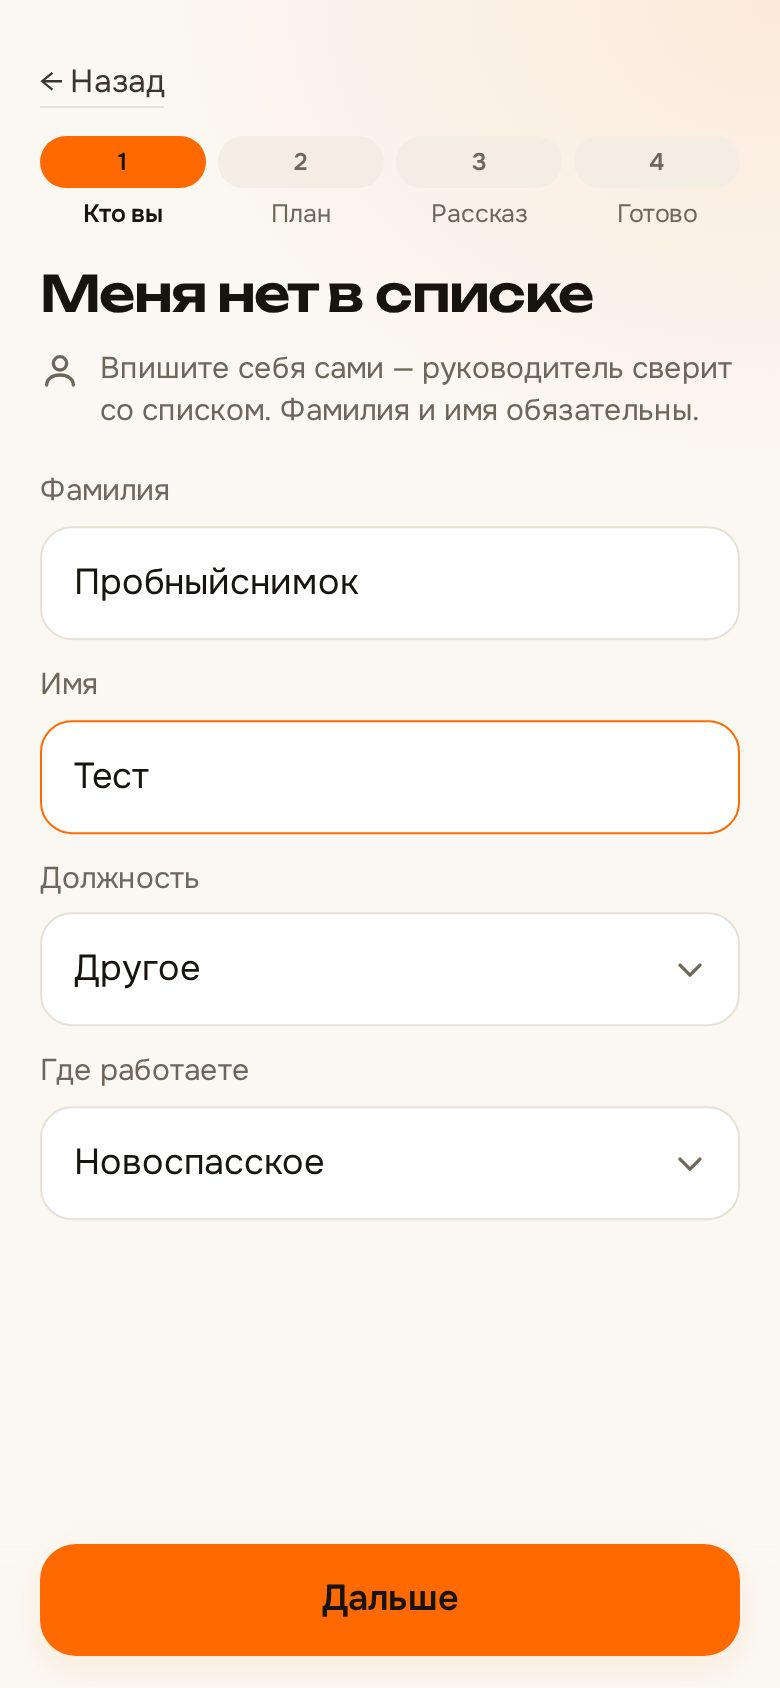
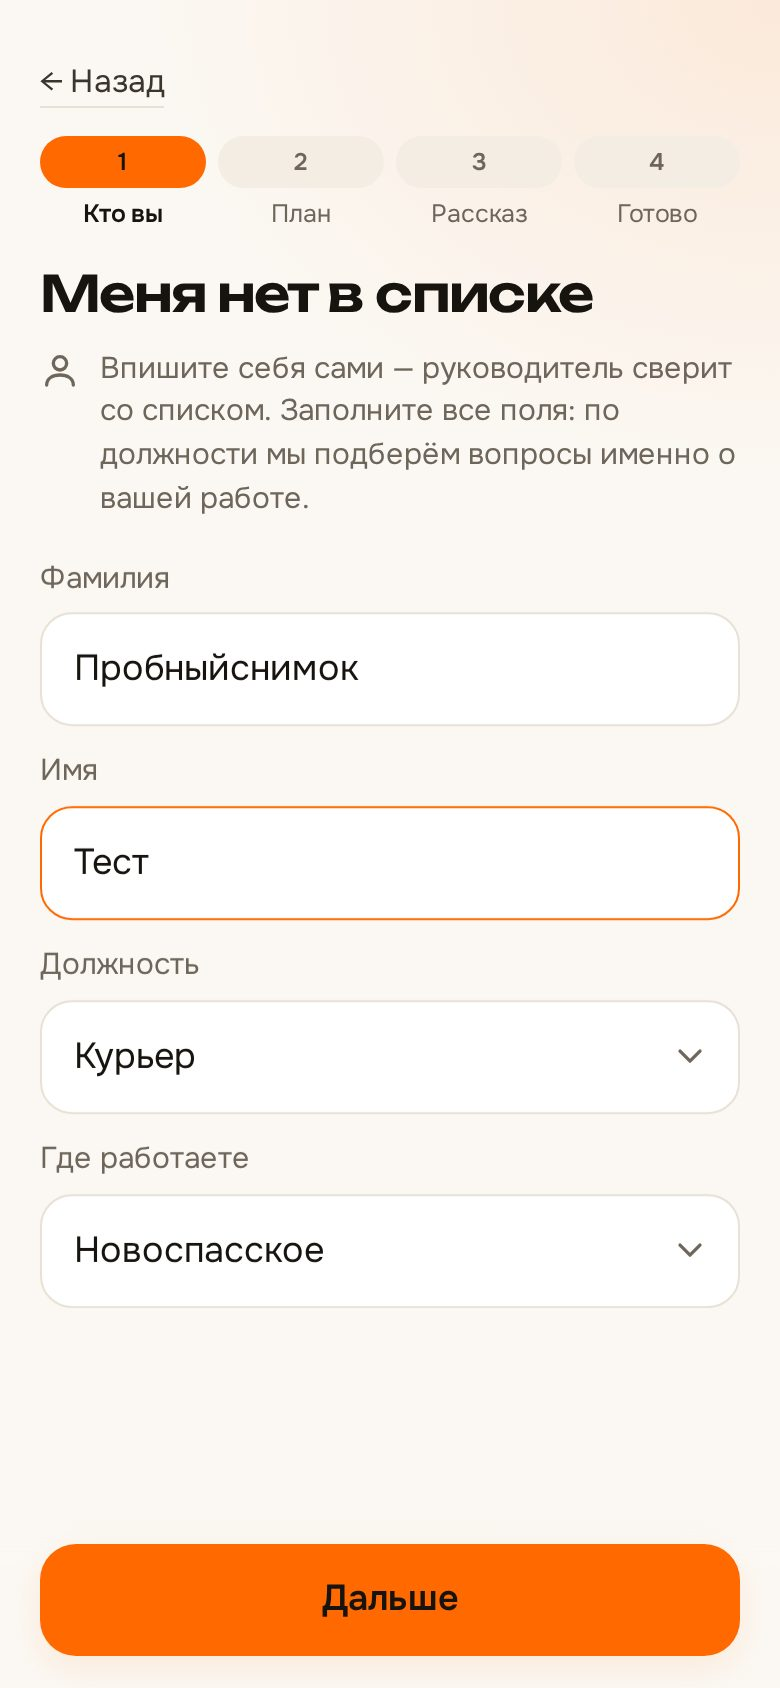
nachistotu: снимки «стало» пересняты на стенде 937992468 — «Меня нет в списке» с выбором должности (SM-NACH-143)

diff --git a/nachistotu/shots/stalo/index.html b/nachistotu/shots/stalo/index.html
@@ -2,7 +2,7 @@
 <title>«Начистоту» — страница сотрудника: было / стало</title>
 <style>body{font:16px/1.5 system-ui,sans-serif;margin:24px auto;max-width:960px;padding:0 16px;background:#f6f3ee;color:#17140f}h1{font-size:24px}h2{font-size:17px;margin:34px 0 10px}.pair{display:grid;grid-template-columns:1fr 1fr;gap:16px}figure{margin:0}img{width:100%;border-radius:14px;box-shadow:0 2px 10px rgba(0,0,0,.12)}figcaption{font-size:14px;color:#6e665b;margin-top:6px;text-align:center}p{color:#3b352d}</style></head><body>
 <h1>«Начистоту» — страница сотрудника: было / стало</h1>
-<p>Экраны №1–16 обзора, после доработки по слову Юрия 05.10 («слабовато… много чего непонятно… ещё понятнее, ещё профессиональнее… СВГэшных анимаций»). Стенд, люди выдуманные; кадр видео — проверочный ролик, на его место встанет обращение Юрия. Снято на стенде 05.10, 390 px.</p>
+<p>Экраны №1–16 обзора, после доработки по слову Юрия 05.10 («слабовато… много чего непонятно… ещё понятнее, ещё профессиональнее… СВГэшных анимаций»). Стенд, люди выдуманные; кадр видео — проверочный ролик, на его место встанет обращение Юрия. Снято на стенде 06.10 (версия 937992468), 390 px. «Меня нет в списке» с 06.10: должность и точку человек выбирает сам — по должности подбираются вопросы его роли.</p>
 <section><h2>№1 · Первый экран: обращение, «Зачем», три шага, обещание карточкой</h2><div class="pair"><figure><img loading="lazy" src="../../itog/img/emp-01-welcome.jpg" alt="было"><figcaption>было</figcaption></figure><figure><img loading="lazy" src="emp-01-welcome.jpg" alt="стало"><figcaption>стало</figcaption></figure></div></section>
 <section><h2>№2 · «Кто вы?» — поиск себя с подсветкой найденного</h2><div class="pair"><figure><img loading="lazy" src="../../itog/img/emp-02-who.jpg" alt="было"><figcaption>было</figcaption></figure><figure><img loading="lazy" src="emp-02-who.jpg" alt="стало"><figcaption>стало</figcaption></figure></div></section>
 <section><h2>№3 · «Это вы?» — инициалы, имя, должность и точка</h2><div class="pair"><figure><img loading="lazy" src="../../itog/img/emp-03-sheet.jpg" alt="было"><figcaption>было</figcaption></figure><figure><img loading="lazy" src="emp-03-sheet.jpg" alt="стало"><figcaption>стало</figcaption></figure></div></section>
